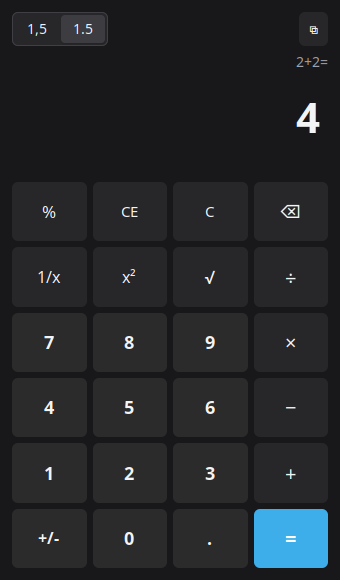
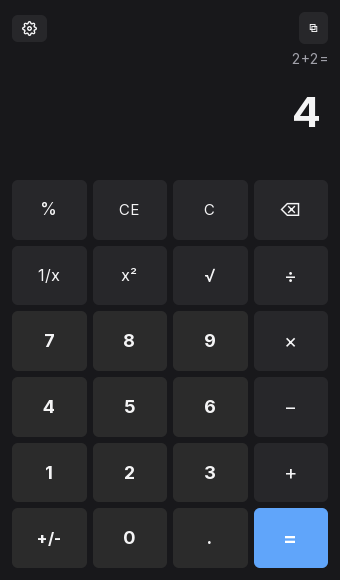
Move decimal separator into a settings modal; update MyGo to v0.5.1
- Top bar gear icon opens a settings modal with the 1,5/1.5 switch
  and a GitHub link to the project page
- Escape with the modal open dismisses it instead of clearing
- Update github.com/egoist/mygo v0.2.9 -> v0.5.1 (incl. Key API migration)
- Refresh README screenshot

diff --git a/main.go b/main.go
@@ -15,6 +15,8 @@ type app struct {
 	editGen int    // display generation: new editor (caret at the end) on each rewrite of ours
 	// sepIdx is the decimal separator in the UI: 0 = "1,5" (BR), 1 = "1.5" (US).
 	sepIdx int
+	// settingsOpen shows the settings modal (decimal separator, project link).
+	settingsOpen bool
 }
 
 func newApp() *app {
@@ -48,7 +50,9 @@ func openCalculatorWindow() {
 // numeric): the engine reacts to the character, not to the key. Enter (=)
 // arrives via Submitted().
 func (a *app) handleKeys(c *ui.Context) {
-	if c.Shortcut(0, ui.KeyEscape) {
+	// While the settings modal is open, Escape dismisses it (the modal
+	// handles that itself) instead of clearing the calculation.
+	if !a.settingsOpen && c.Shortcut(0, ui.KeyEscape) {
 		a.calc.ClearAll()
 	}
 	// New window: Ctrl+N
@@ -130,6 +134,16 @@ func calcButton(c *ui.Context, label string, kind btnKind, fontSize float32, bol
 // has ⌫ but not ⧉. On other systems the plain glyph is used.
 var windowsIcons = runtime.GOOS == "windows" || os.Getenv("CALC_DRAWN_ICONS") == "1"
 
+// githubURL is the project page linked from the settings modal.
+const githubURL = "https://github.com/CBR0/calc"
+
+// gearIcon opens the settings; githubIcon links to the project page.
+// They are SVGs (not font glyphs) so they render on Windows and on minimal
+// handheld font sets alike — see windowsIcons above.
+var gearIcon = ui.MustParseSVG([]byte(`<svg xmlns="http://www.w3.org/2000/svg" viewBox="0 0 24 24" fill="none" stroke="currentColor" stroke-width="2" stroke-linecap="round" stroke-linejoin="round"><circle cx="12" cy="12" r="3"/><path d="M19.4 15a1.65 1.65 0 0 0 .33 1.82l.06.06a2 2 0 0 1 0 2.83 2 2 0 0 1-2.83 0l-.06-.06a1.65 1.65 0 0 0-1.82-.33 1.65 1.65 0 0 0-1 1.51V21a2 2 0 0 1-2 2 2 2 0 0 1-2-2v-.09A1.65 1.65 0 0 0 9 19.4a1.65 1.65 0 0 0-1.82.33l-.06.06a2 2 0 0 1-2.83 0 2 2 0 0 1 0-2.83l.06-.06a1.65 1.65 0 0 0 .33-1.82 1.65 1.65 0 0 0-1.51-1H3a2 2 0 0 1-2-2 2 2 0 0 1 2-2h.09A1.65 1.65 0 0 0 4.6 9a1.65 1.65 0 0 0-.33-1.82l-.06-.06a2 2 0 0 1 0-2.83 2 2 0 0 1 2.83 0l.06.06a1.65 1.65 0 0 0 1.82.33H9a1.65 1.65 0 0 0 1-1.51V3a2 2 0 0 1 2-2 2 2 0 0 1 2 2v.09a1.65 1.65 0 0 0 1 1.51 1.65 1.65 0 0 0 1.82-.33l.06-.06a2 2 0 0 1 2.83 0 2 2 0 0 1 0 2.83l-.06.06a1.65 1.65 0 0 0-.33 1.82V9a1.65 1.65 0 0 0 1.51 1H21a2 2 0 0 1 2 2 2 2 0 0 1-2 2h-.09a1.65 1.65 0 0 0-1.51 1z"/></svg>`))
+
+var githubIcon = ui.MustParseSVG([]byte(`<svg xmlns="http://www.w3.org/2000/svg" viewBox="0 0 24 24" fill="none" stroke="currentColor" stroke-width="2" stroke-linecap="round" stroke-linejoin="round"><path d="M9 19c-5 1.5-5-2.5-7-3m14 6v-3.87a3.37 3.37 0 0 0-.94-2.61c3.14-.35 6.44-1.54 6.44-7A5.44 5.44 0 0 0 20 4.77 5.07 5.07 0 0 0 19.91 1S18.73.65 16 2.48a13.38 13.38 0 0 0-7 0C6.27.65 5.09 1 5.09 1A5.07 5.07 0 0 0 5 4.77a5.44 5.44 0 0 0-1.5 3.78c0 5.42 3.3 6.61 6.44 7A3.37 3.37 0 0 0 9 18.13V22"/></svg>`))
+
 // drawBackspace draws the ⌫ key as a rounded box with "×"
 // (U+00D7, present in Segoe UI).
 func drawBackspace(c *ui.Context, col ui.Color) {
@@ -184,20 +198,25 @@ func (a *app) view(c *ui.Context) {
 	c0 := a.calc
 
 	ui.Column(c).Fill().Padding(12).Gap(6).Children(func() {
-		// Top bar: decimal separator + new window
+		// Top bar: settings + new window (the decimal separator lives in
+		// the settings modal now).
 		ui.Row(c).Gap(8).AlignItems(ui.Center).Children(func() {
-			seg := ui.Segmented(c, &a.sepIdx, "1,5", "1.5")
-			seg.Label("Decimal separator").Tooltip("Dot (US) or comma (BR)")
-			if seg.Changed() {
-				if a.sepIdx == 0 {
-					c0.SetSep(',')
-				} else {
-					c0.SetSep('.')
-				}
-				a.syncDisplay(c)
+			settingsBtn := ui.Box(c).Center().Radius(t.Radius).Cursor(ui.CursorPointer).Padding(6, 10).Tooltip("Settings")
+			settingsBtn.Label("Settings")
+			if settingsBtn.Hovered() {
+				settingsBtn.Background(t.SurfaceHover)
+			} else {
+				settingsBtn.Background(t.Surface)
+			}
+			settingsBtn.Children(func() {
+				ui.Icon(c, gearIcon).Size(15, 15).TextColor(t.Text)
+			})
+			if settingsBtn.Clicked() {
+				a.settingsOpen = true
 			}
 			ui.Spacer(c)
 			newWin := ui.Box(c).Center().Radius(t.Radius).Cursor(ui.CursorPointer).Padding(6, 10).Tooltip("New window (Ctrl+N)")
+			newWin.Label("New window")
 			if newWin.Hovered() {
 				newWin.Background(t.SurfaceHover)
 			} else {
@@ -231,9 +250,14 @@ func (a *app) view(c *ui.Context) {
 		// editor with the caret at the end — without it the caret lags on
 		// grouping and the digits come out of order ("12345"→"12354").
 		// Plain typing does not rewrite.
-		ui.Box(c).Key(a.editGen).FillWidth().Children(func() {
+		ui.Box(c.Key(a.editGen)).FillWidth().Children(func() {
 			disp := ui.TextAreaBase(c, &a.edit).Label("Result").AutoFocus().NoWrap()
-			disp.Focus() // focus always on the display: the physical keyboard lands here
+			// Focus always on the display so the physical keyboard lands
+			// here — except while the settings modal is open, so its
+			// controls keep the focus.
+			if !a.settingsOpen {
+				disp.Focus()
+			}
 			// Enter in the display = "=" (consumes it before the editor, which
 			// would break the line).
 			disp.HandleInput(func(ev ui.InputEvent) bool {
@@ -363,6 +387,66 @@ func (a *app) view(c *ui.Context) {
 					c0.Equals()
 				}
 			})
+		})
+	})
+
+	a.settingsModal(c)
+}
+
+// settingsModal shows the app settings over a dimmed window: the decimal
+// separator switch and a link to the project on GitHub. Clicking outside
+// it or pressing Escape dismisses it.
+func (a *app) settingsModal(c *ui.Context) {
+	t := c.Theme()
+	c0 := a.calc
+	ui.Modal(c, &a.settingsOpen, func() {
+		ui.Row(c).Gap(8).AlignItems(ui.Center).Children(func() {
+			ui.Text(c, "Settings").Bold().FontSize(17)
+			ui.Spacer(c)
+			closeBtn := ui.Box(c).Center().Radius(t.Radius).Cursor(ui.CursorPointer).Padding(4, 10).Tooltip("Close")
+			closeBtn.Label("Close")
+			if closeBtn.Hovered() {
+				closeBtn.Background(t.SurfaceHover)
+			} else {
+				closeBtn.Background(t.Surface)
+			}
+			closeBtn.Children(func() {
+				ui.Text(c, "×").FontSize(15).TextColor(t.Text)
+			})
+			if closeBtn.Clicked() {
+				a.settingsOpen = false
+			}
+		})
+		ui.Row(c).Gap(8).AlignItems(ui.Center).Children(func() {
+			ui.Text(c, "Decimal separator").FontSize(14)
+			ui.Spacer(c)
+			seg := ui.Segmented(c, &a.sepIdx, "1,5", "1.5")
+			seg.Label("Decimal separator").Tooltip("Dot (US) or comma (BR)")
+			if seg.Changed() {
+				if a.sepIdx == 0 {
+					c0.SetSep(',')
+				} else {
+					c0.SetSep('.')
+				}
+				a.syncDisplay(c)
+			}
+		})
+		ui.Row(c).Gap(8).AlignItems(ui.Center).Children(func() {
+			ui.Text(c, "Project on GitHub").FontSize(14)
+			ui.Spacer(c)
+			gh := ui.Box(c).Center().Radius(t.Radius).Cursor(ui.CursorPointer).Padding(6, 10).Tooltip("Open the project on GitHub")
+			gh.Label("GitHub")
+			if gh.Hovered() {
+				gh.Background(t.SurfaceHover)
+			} else {
+				gh.Background(t.Surface)
+			}
+			gh.Children(func() {
+				ui.Icon(c, githubIcon).Size(16, 16).TextColor(t.Text)
+			})
+			if gh.Clicked() {
+				c.OpenURL(githubURL)
+			}
 		})
 	})
 }

diff --git a/main_test.go b/main_test.go
@@ -559,6 +559,10 @@ func TestViewSepToggle(t *testing.T) {
 	if a.calc.sep != '.' {
 		t.Fatalf("default sep = %q, want '.'", a.calc.sep)
 	}
+	// The separator switch lives in the settings modal now.
+	if err := tt.Click("Settings"); err != nil {
+		t.Fatalf("open settings: %v", err)
+	}
 	if err := tt.Click("1,5"); err != nil {
 		t.Fatalf("click sep BR: %v", err)
 	}
@@ -570,6 +574,56 @@ func TestViewSepToggle(t *testing.T) {
 	}
 	if a.calc.sep != '.' {
 		t.Fatalf("sep = %q, want '.'", a.calc.sep)
+	}
+}
+
+func TestViewSettingsModal(t *testing.T) {
+	a := newApp()
+	tt := ui.NewTester(a.view, 340, 580)
+	// Closed at first: no settings content on screen.
+	if tt.HasText("Decimal separator") {
+		t.Fatalf("settings visible before opening in %q", tt.Texts())
+	}
+	if err := tt.Click("Settings"); err != nil {
+		t.Fatalf("open settings: %v", err)
+	}
+	for _, want := range []string{"Settings", "Decimal separator", "Project on GitHub"} {
+		if !tt.HasText(want) {
+			t.Fatalf("missing %q in %q", want, tt.Texts())
+		}
+	}
+	// The GitHub icon opens the project page.
+	if err := tt.Click("GitHub"); err != nil {
+		t.Fatalf("click GitHub: %v", err)
+	}
+	opened := tt.OpenedURLs()
+	if len(opened) != 1 || opened[0] != "https://github.com/CBR0/calc" {
+		t.Fatalf("opened URLs = %q, want the project page", opened)
+	}
+	// The Close button dismisses the modal.
+	if err := tt.Click("Close"); err != nil {
+		t.Fatalf("close settings: %v", err)
+	}
+	if tt.HasText("Decimal separator") {
+		t.Fatalf("settings still visible after Close in %q", tt.Texts())
+	}
+}
+
+func TestViewSettingsEscapeKeepsEntry(t *testing.T) {
+	a := newApp()
+	tt := ui.NewTester(a.view, 340, 580)
+	a.calc.UserEdit("12", "")
+	a.edit = a.calc.Display()
+	if err := tt.Click("Settings"); err != nil {
+		t.Fatalf("open settings: %v", err)
+	}
+	// Escape dismisses the modal instead of clearing the calculation.
+	tt.Key(0, ui.KeyEscape)
+	if tt.HasText("Decimal separator") {
+		t.Fatalf("settings still visible after Escape in %q", tt.Texts())
+	}
+	if a.calc.Display() != "12" {
+		t.Fatalf("display = %q, want 12 (Escape must not clear)", a.calc.Display())
 	}
 }
 

diff --git a/README.md b/README.md
@@ -48,7 +48,7 @@ Download from [Releases](https://github.com/CBR0/calc/releases):
   and type directly into it; pasted numbers in either format are accepted
   (`247.227915`, `6,306.04879`)
 - Thousands grouping in the display and in the history, as in Windows
-- Decimal separator switch in the toolbar: `1.5` (US, default) or `1,5`
+- Decimal separator switch in Settings (gear icon): `1.5` (US, default) or `1,5`
   (BR); the decimal key and the results follow it
 - Physical keyboard works by character, so any layout works (ABNT2, US,
   numeric): `0-9`, `.`/`,`, `+ - * / % =`, `Enter` (=), `Backspace`/`Delete`,
